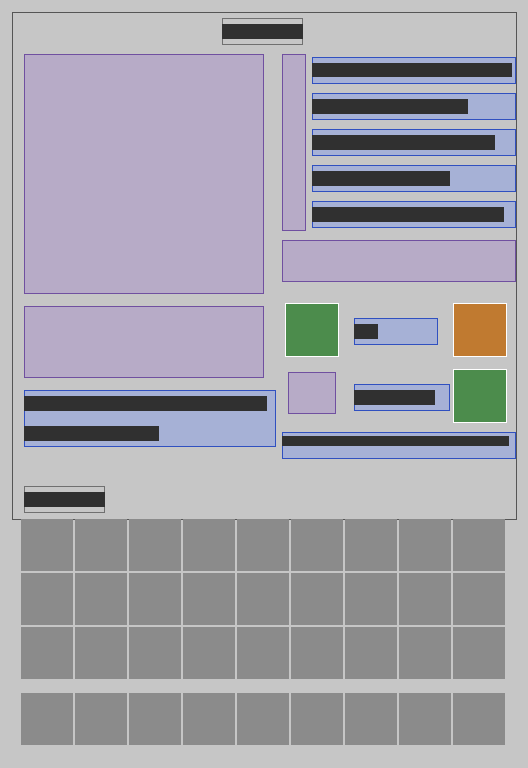
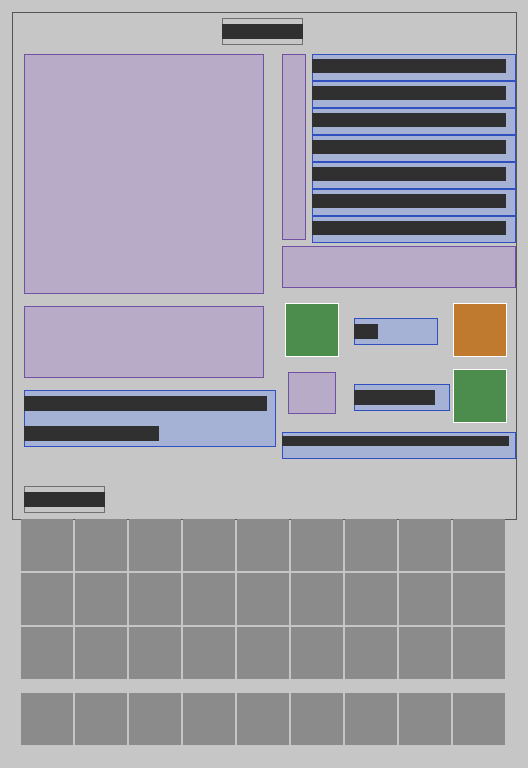
S-011 (2): drafting table process switch P (bipolar 5 / +metal2 7 / MOS 4 / MOS+metal2 6 layers, roles per process, colours for gate oxide, via, metal 2), MOS stamps only on MOS sheets, probe view shows gate oxide and metal 2; TECH_TREE [9-23] done, REFERENCES L13, LITHO_DESIGN, test_queue, LOG (288

Changed region(s): [[0.5152, 0.0625, 1.0, 0.375]]

diff --git a/src/main/java/com/taku3/semiconductorlab/block/DraftingTableBlockEntity.java b/src/main/java/com/taku3/semiconductorlab/block/DraftingTableBlockEntity.java
@@ -35,7 +35,7 @@ public class DraftingTableBlockEntity extends BlockEntity implements MachineBE {
     public static final int SLOT_SHEET = 0, SLOT_OUT = 1, SLOT_STAMP = 2, SLOT_COUNT = 3;
     public static final int DATA_UNDO = 0, DATA_REDO = 1, DATA_COUNT = 2;
     /** ボタン：新しい方眼紙・元に戻す・やり直す・ひと筆の始まり（元に戻す単位）、方眼の大きさ（+i）、原図を切る（+層）、層を消す（+層） */
-    public static final int BTN_NEW = 1, BTN_UNDO = 2, BTN_REDO = 3, BTN_STROKE = 4, BTN_SIZE = 10, BTN_CUT = 100, BTN_CLEAR = 200;
+    public static final int BTN_NEW = 1, BTN_UNDO = 2, BTN_REDO = 3, BTN_STROKE = 4, BTN_PROCESS = 5, BTN_SIZE = 10, BTN_CUT = 100, BTN_CLEAR = 200;
     /** ハンコを押す（v0.3b）：300000 ＋ マス（押す所の左上） */
     public static final int BTN_STAMP = 300_000;
     /** 選べる方眼の大きさ（露光の方法ごと、ExposureTool と同じ。v0.3 の密着露光は 8、より細かい物はその方法ができてから焼ける） */
@@ -45,17 +45,32 @@ public class DraftingTableBlockEntity extends BlockEntity implements MachineBE {
     /** 塗る（on）・消す（off）のボタンの番号：100000×(1 か 2) ＋ 10000×層 ＋ マス */
     public static int paintId(boolean on, int layer, int cell) { return (on ? 1 : 2) * 100_000 + layer * 10_000 + cell; }
 
-    /** v0.3 のふつうの層の並び（三重拡散＋窓＋アルミ1層。INBOX S-001）。役目の名前は lang litho.semiconductor-lab.role.&lt;ROLES&gt; */
-    public static final String[] ROLES = {"island", "base", "emitter", "contact", "metal"};
-    public static ChipDesign blank(int size) {
+    /** バイポーラの層の役目（三重拡散＋窓＋アルミ、INBOX S-001）。lang litho.semiconductor-lab.role.&lt;役目&gt; */
+    public static final String[] ROLES = {"island", "base", "emitter", "contact", "metal", "via", "metal2"};
+    /** MOS の層の役目（S-011 Q21-3 案A：ソースとドレイン・ゲート酸化膜・窓・金属、2層目の金属つきなら＋VIA・2層目） */
+    public static final String[] MOS_ROLES = {"source_drain", "gate_ox", "contact", "metal", "via", "metal2"};
+    /** 層の数のいちばん多い場合（バイポーラ＋2層目） */
+    public static final int MAX_LAYERS = ROLES.length;
+
+    /** 層 i の役目の名前（設計図の工程の種類で決まる） */
+    public static String role(ChipDesign d, int i) {
+        String[] r = d.mos() ? MOS_ROLES : ROLES;
+        return i < r.length ? r[i] : "metal";
+    }
+
+    public static ChipDesign blank(int size) { return blank(size, ChipDesign.BIPOLAR, false); }
+
+    /** 白紙（工程の種類と2層目の金属で層の並びが決まる、S-011） */
+    public static ChipDesign blank(int size, String process, boolean twoMetal) {
         BitGrid e = BitGrid.empty(size);
-        return new ChipDesign(size, "", List.of(new ChipDesign.Layer(LayerKind.DIFF_N, e), new ChipDesign.Layer(LayerKind.DIFF_P, e),
-                new ChipDesign.Layer(LayerKind.DIFF_N, e), new ChipDesign.Layer(LayerKind.CONTACT, e), new ChipDesign.Layer(LayerKind.METAL, e)));
+        List<ChipDesign.Layer> l = new java.util.ArrayList<>();
+        for (LayerKind k : ChipDesign.kindsFor(process, twoMetal)) l.add(new ChipDesign.Layer(k, e));
+        return new ChipDesign(size, "", l, List.of(), process);
     }
 
     /** 画面の中の位置（画面のクラス DraftingTableScreen も同じ数字を使う） */
-    public static final int H = 256, GRID_X = 8, GRID_Y = 18, GRID_W = 80, LAYER_X = 94, LAYER_Y = 18, LAYER_ROW = 12,
-            BTN_Y = 80, SECTION_X = 8, SECTION_Y = 102, SECTION_H = 24, SHEET_X = 96, SHEET_Y = 102, OUT_X = 152, OUT_Y = 102,
+    public static final int H = 256, GRID_X = 8, GRID_Y = 18, GRID_W = 80, LAYER_X = 94, LAYER_Y = 18, LAYER_ROW = 9,
+            BTN_Y = 82, SECTION_X = 8, SECTION_Y = 102, SECTION_H = 24, SHEET_X = 96, SHEET_Y = 102, OUT_X = 152, OUT_Y = 102,
             STAMP_X = 152, STAMP_Y = 124, SYMBOL_BTN_X = 96, SYMBOL_BTN_Y = 124;
 
     public static final MachineLayout LAYOUT;
@@ -66,11 +81,12 @@ public class DraftingTableBlockEntity extends BlockEntity implements MachineBE {
                 .in(SLOT_STAMP, STAMP_X, STAMP_Y, s -> s.is(Semiconductor.STAMP), 1)   // ハンコ（v0.3b）：入れている間は左クリックで押す
                 .area("symbol_button", SYMBOL_BTN_X, SYMBOL_BTN_Y, 16, 14)
                 .area("grid", GRID_X, GRID_Y, GRID_W, GRID_W)
-                .area("swatch", LAYER_X, LAYER_Y, 8, LAYER_ROW * ROLES.length - 1)
+                .area("swatch", LAYER_X, LAYER_Y, 8, LAYER_ROW * MAX_LAYERS - 1)
                 .area("buttons", LAYER_X, BTN_Y, 78, 14)
                 .area("section", SECTION_X, SECTION_Y, GRID_W, SECTION_H);
-        for (int i = 0; i < ROLES.length; i++)
-            b.text("layer" + i, LAYER_X + 10, LAYER_Y + 1 + LAYER_ROW * i, 68, 1, "litho.semiconductor-lab.role." + ROLES[i]).fit();
+        java.util.List<String> roleKeys = java.util.stream.Stream.concat(java.util.Arrays.stream(ROLES), java.util.Arrays.stream(MOS_ROLES)).distinct().map(r -> "litho.semiconductor-lab.role." + r).toList();
+        for (int i = 0; i < MAX_LAYERS; i++)
+            b.lazyText("layer" + i, LAYER_X + 10, LAYER_Y + LAYER_ROW * i, 68, 1, () -> roleKeys).fit();
         LAYOUT = b.label("arrow", SHEET_X + 22, SHEET_Y + 4, 28, "→")
                 .text("stamp_label", STAMP_X - 34, STAMP_Y + 4, 32, 1, "gui.semiconductor-lab.drafting_table.stamp_slot").fit()
                 .text("hint", LAYER_X, 144, 78, 1, MachineLayout.keys("gui.semiconductor-lab.drafting_table.", "need_sheet", "draw", "zoom", "out_full", "stamp")).fit()
@@ -134,11 +150,18 @@ public class DraftingTableBlockEntity extends BlockEntity implements MachineBE {
             return true;
         }
         if (id == BTN_STROKE) { remember(d); return true; }   // ひと筆の始まり：ここまでを1回で戻せる
+        if (id == BTN_PROCESS) {   // 工程の種類を順に：バイポーラ → バイポーラ＋2層目 → MOS → MOS＋2層目（白紙になる、元に戻せる、S-011）
+            boolean mos = d.mos(), two = d.twoMetal();
+            boolean nextMos = two ? !mos : mos, nextTwo = !two;
+            remember(d);
+            setDesign(blank(d.size(), nextMos ? ChipDesign.MOS : ChipDesign.BIPOLAR, nextTwo));
+            return true;
+        }
         if (id >= BTN_SIZE && id < BTN_SIZE + SIZES.length) {
             int size = SIZES[id - BTN_SIZE];
             if (size == d.size()) return false;
             remember(d);
-            setDesign(blank(size));
+            setDesign(blank(size, d.process(), d.twoMetal()));
             return true;
         }
         if (id >= BTN_CUT && id < BTN_CUT + d.layers().size()) {
@@ -156,7 +179,7 @@ public class DraftingTableBlockEntity extends BlockEntity implements MachineBE {
         if (id >= BTN_STAMP && id < BTN_STAMP + 10_000) {   // ハンコを押す（左上のマス）
             ChipDesign st = container.getItem(SLOT_STAMP).get(ModDataComponents.CHIP_DESIGN);
             int cell = id - BTN_STAMP;
-            if (st == null || cell >= d.size() * d.size()) return false;
+            if (st == null || cell >= d.size() * d.size() || st.mos() != d.mos()) return false;   // 工程の種類のちがうハンコは押せない
             remember(d);
             setDesign(d.stamp(st, cell % d.size(), cell / d.size()));
             return true;

diff --git a/src/client/java/com/taku3/semiconductorlab/client/DraftingTableScreen.java b/src/client/java/com/taku3/semiconductorlab/client/DraftingTableScreen.java
@@ -22,7 +22,15 @@ import static com.taku3.semiconductorlab.block.DraftingTableBlockEntity.*;
 public class DraftingTableScreen extends MachineScreen {
     private static final int P = 0xFFE89A9A, N = 0xFF92B4EE, P_SUB = 0xFFF2C4C4, N_SUB = 0xFFC4D6F4, METAL = 0x90707078, OXIDE = 0xFFF4F4F4,
             HILITE = 0xFFFFD030, GRIDLINE = 0x30000000;
-    private static final int[] SWATCH = {N, P, N, 0xFF303030, 0xFF8A8A92};
+    private static final int[] SWATCH = {N, P, N, 0xFF303030, 0xFF8A8A92, 0xFF4040A0, 0xFF506090};
+
+    /** 層の種類の色見本 */
+    private static int swatch(com.taku3.semiconductorlab.litho.LayerKind k) {
+        return switch (k) {
+            case DIFF_N -> N; case DIFF_P -> P; case CONTACT -> 0xFF303030; case METAL -> 0xFF8A8A92;
+            case GATE_OX -> 0xFF60A060; case VIA -> 0xFF4040A0; case METAL2 -> 0xFF506090;
+        };
+    }
 
     private int layer = 0, sectionRow = 0, lastCell = -1;
     private boolean painting, paintOn;
@@ -57,10 +65,10 @@ public class DraftingTableScreen extends MachineScreen {
 
     @Override protected void init() {
         super.init();
-        String[] labels = {"←", "→", "✂", "×", "+", "#"};
+        String[] labels = {"←", "→", "✂", "×", "+", "#", "P"};   // P＝工程の種類（バイポーラ／MOS・2層目、S-011）
         for (int i = 0; i < labels.length; i++) {
             final int k = i;
-            addRenderableWidget(Button.builder(Component.literal(labels[i]), b -> button(k)).bounds(leftPos + LAYER_X + 13 * i, topPos + BTN_Y, 12, 14).build());
+            addRenderableWidget(Button.builder(Component.literal(labels[i]), b -> button(k)).bounds(leftPos + LAYER_X + 11 * i, topPos + BTN_Y, 10, 14).build());
         }
         // 記号の切りかえ（v0.3b）：押したハンコを記号（色の箱）で見せる。中身をのぞいているときは1段もどる
         addRenderableWidget(Button.builder(Component.literal("▣"), b -> { if (!inside.isEmpty()) inside.pop(); else symbols = !symbols; })
@@ -75,6 +83,7 @@ public class DraftingTableScreen extends MachineScreen {
             case 2 -> press(BTN_CUT + layer);
             case 3 -> press(BTN_CLEAR + layer);
             case 4 -> press(BTN_NEW);
+            case 6 -> press(BTN_PROCESS);
             default -> {   // 方眼の大きさを順に（8 → 12 → 16 → 24 → … → 72、露光の方法ごと）
                 if (d == null) return;
                 int i = 0;
@@ -132,7 +141,8 @@ public class DraftingTableScreen extends MachineScreen {
     @Override public boolean mouseClicked(MouseButtonEvent e, boolean doubleClick) {
         ChipDesign d = design();
         double rx = e.x() - leftPos, ry = e.y() - topPos;
-        if (rx >= LAYER_X && rx < LAYER_X + 78 && ry >= LAYER_Y && ry < LAYER_Y + LAYER_ROW * ROLES.length) {
+        int nLayers = d == null ? 0 : d.layers().size();
+        if (rx >= LAYER_X && rx < LAYER_X + 78 && ry >= LAYER_Y && ry < LAYER_Y + LAYER_ROW * nLayers) {
             layer = (int) ((ry - LAYER_Y) / LAYER_ROW);
             return true;
         }
@@ -189,12 +199,14 @@ public class DraftingTableScreen extends MachineScreen {
     @Override
     public void extractBackground(GuiGraphicsExtractor g, int mouseX, int mouseY, float partialTick) {
         super.extractBackground(g, mouseX, mouseY, partialTick);
-        for (int i = 0; i < ROLES.length; i++) {   // 層の色見本と、いま選んでいる層
-            int y = topPos + LAYER_Y + LAYER_ROW * i;
-            g.fill(leftPos + LAYER_X, y + 1, leftPos + LAYER_X + 8, y + 9, SWATCH[i]);
-            if (i == layer) g.outline(leftPos + LAYER_X - 1, y, 80, LAYER_ROW - 1, HILITE);
-        }
         ChipDesign d = design();
+        int nLayers = d == null ? ROLES.length - 2 : d.layers().size();
+        if (layer >= nLayers) layer = 0;
+        for (int i = 0; i < nLayers; i++) {   // 層の色見本と、いま選んでいる層（層の種類で色）
+            int y = topPos + LAYER_Y + LAYER_ROW * i;
+            g.fill(leftPos + LAYER_X, y + 1, leftPos + LAYER_X + 8, y + LAYER_ROW - 1, d == null ? SWATCH[i] : swatch(d.layers().get(i).kind()));
+            if (i == layer) g.outline(leftPos + LAYER_X - 1, y, 80, LAYER_ROW, HILITE);
+        }
         int gx = leftPos + GRID_X, gy = topPos + GRID_Y;
         g.fill(gx, gy, gx + GRID_W, gy + GRID_W, 0xFFDADADA);
         g.fill(leftPos + SECTION_X, topPos + SECTION_Y, leftPos + SECTION_X + GRID_W, topPos + SECTION_Y + SECTION_H, 0xFFDADADA);
@@ -208,7 +220,10 @@ public class DraftingTableScreen extends MachineScreen {
             int x = ox + vx, y = oy + vy;
             int x0 = gx + vx * cs, y0 = gy + vy * cs;
             g.fill(x0, y0, x0 + cs, y0 + cs, color(m, x, y));
+            if (m.gate(x, y)) g.fill(x0, y0, x0 + cs, y0 + cs, 0x6040A040);   // ゲート酸化膜（緑がかった色）
             if (m.metal(x, y)) g.fill(x0, y0, x0 + cs, y0 + cs, METAL);
+            if (m.metal2(x, y)) g.fill(x0, y0, x0 + cs, y0 + cs, 0x80506090);   // 2層目の金属（青がかった灰）
+            if (m.via(x, y)) { int d3 = Math.max(1, cs / 3); g.fill(x0 + cs / 2 - d3, y0 + cs / 2 - d3, x0 + cs / 2 + d3, y0 + cs / 2 + d3, 0xFF4040A0); }
             if (m.contact(x, y)) { int d2 = Math.max(1, cs / 4); g.fill(x0 + cs / 2 - d2, y0 + cs / 2 - d2, x0 + cs / 2 + d2, y0 + cs / 2 + d2, 0xFF202020); }
             boolean on = layer < d.layers().size() && d.layers().get(layer).cells().get(x, y);
             if (cs >= 3) g.outline(x0, y0, cs, cs, on ? HILITE : GRIDLINE);
@@ -281,7 +296,12 @@ public class DraftingTableScreen extends MachineScreen {
             return Component.translatable(k + (design().size() > SIZES[0] ? "zoom" : "draw"));
         }
         if (id.equals("stamp_label")) return Component.translatable(k0 + "stamp_slot");
-        if (id.startsWith("layer")) return Component.translatable("litho.semiconductor-lab.role." + ROLES[id.charAt(5) - '0']);
+        if (id.startsWith("layer")) {
+            ChipDesign d = design();
+            int i = id.charAt(5) - '0';
+            if (d == null ? i >= ROLES.length - 2 : i >= d.layers().size()) return null;
+            return Component.translatable("litho.semiconductor-lab.role." + (d == null ? ROLES[i] : role(d, i)));
+        }
         return null;
     }
 }

diff --git a/src/gametest/java/com/taku3/semiconductorlab/gametest/SemiconductorTests.java b/src/gametest/java/com/taku3/semiconductorlab/gametest/SemiconductorTests.java
@@ -2379,6 +2379,30 @@ public class SemiconductorTests extends LabTestBase {
         h.succeed();
     }
 
+    /** S-011：製図台の P で工程の種類を順に（バイポーラ5層 → ＋2層目7層 → MOS 4層 → MOS＋2層目6層）。MOS のハンコはバイポーラの紙には押せない */
+    @GameTest(maxTicks = 50)
+    public void draftingProcess(GameTestHelper h) {
+        h.setBlock(p(1, 1, 1), Semiconductor.DRAFTING_TABLE.block);
+        var dt = h.getBlockEntity(p(1, 1, 1), com.taku3.semiconductorlab.block.DraftingTableBlockEntity.class);
+        var player = h.makeMockPlayer(net.minecraft.world.level.GameType.SURVIVAL);
+        dt.onButton(player, com.taku3.semiconductorlab.block.DraftingTableBlockEntity.BTN_NEW);
+        int[] sizes = new int[4]; boolean[] mos = new boolean[4];
+        for (int k = 0; k < 4; k++) {
+            sizes[k] = dt.design().layers().size(); mos[k] = dt.design().mos();
+            dt.onButton(player, com.taku3.semiconductorlab.block.DraftingTableBlockEntity.BTN_PROCESS);
+        }
+        h.assertTrue(java.util.Arrays.equals(sizes, new int[] {5, 7, 4, 6}) && java.util.Arrays.equals(mos, new boolean[] {false, false, true, true}), "process cycle: " + java.util.Arrays.toString(sizes));
+        h.assertValueEqual(com.taku3.semiconductorlab.block.DraftingTableBlockEntity.role(com.taku3.semiconductorlab.litho.LithoExamples.nmosInverter(), 1), "gate_ox", "MOS layer 1 is the gate oxide");
+        ItemStack stamp = new ItemStack(Semiconductor.STAMP);
+        stamp.set(ModDataComponents.CHIP_DESIGN, com.taku3.semiconductorlab.litho.LithoExamples.nmosInverter().crop());
+        dt.getContainer().setItem(com.taku3.semiconductorlab.block.DraftingTableBlockEntity.SLOT_STAMP, stamp);
+        h.assertFalse(dt.onButton(player, com.taku3.semiconductorlab.block.DraftingTableBlockEntity.BTN_STAMP), "a MOS stamp does not go on a bipolar sheet");
+        dt.onButton(player, com.taku3.semiconductorlab.block.DraftingTableBlockEntity.BTN_PROCESS);
+        dt.onButton(player, com.taku3.semiconductorlab.block.DraftingTableBlockEntity.BTN_PROCESS);
+        h.assertTrue(dt.design().mos() && dt.onButton(player, com.taku3.semiconductorlab.block.DraftingTableBlockEntity.BTN_STAMP), "it goes on a MOS sheet");
+        h.succeed();
+    }
+
     static void machineRecipes(com.google.gson.JsonArray a) {
         double zt = ZoneRefiningFurnaceBlockEntity.TOTAL_TICKS / 20.0, zw = ZoneRefiningFurnaceBlockEntity.WATTS;
         rec(a, Semiconductor.ZONE_REFINING_FURNACE.block, "帯域精製（1パスで純度が1段上がる：6N→9N→10N）",

diff --git a/src/client/java/com/taku3/semiconductorlab/client/ProbeStationScreen.java b/src/client/java/com/taku3/semiconductorlab/client/ProbeStationScreen.java
@@ -98,7 +98,9 @@ public class ProbeStationScreen extends MachineScreen {
             int x0 = gx + x * c, y0 = gy + y * c;
             boolean sub = m.level(x, y) == 0;
             g.fill(x0, y0, x0 + c, y0 + c, m.type(x, y) == 'p' ? (sub ? P_SUB : P) : (sub ? N_SUB : N));
+            if (m.gate(x, y)) g.fill(x0, y0, x0 + c, y0 + c, 0x6040A040);   // ゲート酸化膜（MOS、S-011）
             if (m.metal(x, y)) g.fill(x0, y0, x0 + c, y0 + c, METAL);
+            if (m.metal2(x, y)) g.fill(x0, y0, x0 + c, y0 + c, 0x80506090);   // 2層目の金属
             if (m.contact(x, y)) g.fill(x0 + c / 2 - 1, y0 + c / 2 - 1, x0 + c / 2 + 1, y0 + c / 2 + 1, 0xFF202020);
             if (sol != null) {   // 電流の明るさ（対数）
                 double a = sol.cellAmps()[y * n + x];

diff --git a/docs/TECH_TREE.md b/docs/TECH_TREE.md
@@ -583,7 +583,7 @@ graph LR
 ### [9-49] サイリスタ（SCR：大電流をオン・オフする半導体スイッチ） ❓  年: 1957（1956〜1957） ／ 前提: [9-16]熱拡散（p・n・p・n の4層）, [4-11]整流器 ／ 本物: シリコンに p・n・p・n の4つの層を作った半導体のスイッチ。小さな電流を1回流すだけでオンになり、大きな電流を流し続ける。1956年ごろベル研究所で p-n-p-n のスイッチが研究され、1957年にアメリカの GE が3本足の SCR（シリコン制御整流器）を作って売り出した（IEEE マイルストーン「SCR/Thyristor, 1957」）。水銀整流器やガス入りの管を置きかえ、電車・電力のインバータは最初サイリスタで作られた（GTO・IGCT はその子孫、[9-41]） ／ MC: 未定（実装の前に相談） ／ へえ①: 電車のモーターの速さを変える装置は、最初はサイリスタという半導体のスイッチで作られた（O-011 で追加。出典：IEEE Milestones「SCR/Thyristor, 1957」、ETHW IEEE Milestones 'SCR/Thyristor, 1957' / IEEE Spectrum（https://ethw.org/Milestones:SCR/Thyristor,_1957））
 ### [9-21] 現像・ポストベーク ✅  年: 1957（1955〜57） ／ 遊び方: 重 ／ **実装（2026-10 IMP4-01、O-006）**: 現像液 developer（作業台：NaOH1＋水バケツ1＋空のガラス瓶3 → 3、約1%）。現像槽 developer_bench（ソーダ石灰ガラス×5＋鉄×2＋銅ケーブル、300W）：露光した加工中のウェハー1〜8枚＋現像液 → ChipOps.develop（ポストベーク込み、20秒）。ネガ型（キシレン）は [2-30] の後。CHEMISTRY F41〜F42、REFERENCES F20、テスト developer_bench ／ 続きの「レジストはがし」: 続きの「レジストはがし」だけ先に：レジストはがし槽 resist_stripper（ソーダ石灰ガラス×7＋銅ケーブル、500W）。レジスト付きのウェハー1〜8枚＋硫酸＋過酸化水素 → ChipOps.strip（塗り直しにも）。CHEMISTRY F40、テスト resist_stripper。現像そのものは前提 [9-20]（C）の後 ／ 前提: [9-20], 現像液＝[2-02]KOH or [2-08]NaOH or [2-20]キシレン（ポジ型は KOH・NaOH の薄い水溶液、現代は金属を含まない TMAH（2.38% 水溶液が標準）。ネガ型はキシレン）／ 本物: 露光部（ポジ）or 未露光部（ネガ）を溶かして模様を出す → 加熱して固め、エッチングに耐えるように。現像で窓を開ける工程はベル研の1955〜57年から（コダックの KPR）。ポストベークの始まりの年は未確認 ／ MC: 現像槽（ROADMAP v0.3 #4）／ へえ①: 写真の現像と同じ手順で回路を浮かび上がらせる
 ### [9-22] 集積回路（IC）✅  年: 1958（1958〜59） ／ **実装（2026-10 A、INBOX O-010）**: 検査台の発見 monolithic_ic（1959、Discoveries.integrated）：1枚の板の中で、トランジスタと「別の領域の」抵抗（接合で分けた別の部品）が、板の上の Al の線でつながっていれば見つかる（進捗 discovery/monolithic_ic、チャレンジ）。ゲームで作れるのは**ノイスの形**（Si・プレーナ・酸化膜の上の蒸着 Al・接合分離）。**キルビーの形**（1958.9.12、TI、Ge の1かけらにトランジスタ・板そのものの抵抗・pn 接合のコンデンサ、部品どうしは金の細い線で空中に＝メサ形、平らでない）は作れない＝省略⚠（Ge の板と金線のボンディングが無い。説明と REFERENCES L4 に違いを書いた）。8×8 の NOT の例は5つの発見（抵抗・ダイオード・トランジスタ・IC・NOT）。GameTest litho_core・probe_station・v03Chain ／ 元の記述→ 前提: [9-18], [9-25]配線 ／ 本物: 1958.9 ジャック・キルビー（TI。Ge 上に部品を作り金線で結んだ）、1959 ロバート・ノイス（フェアチャイルド。プレーナ＋蒸着 Al 配線で一体化＝モノリシック IC）。キルビーは2000年ノーベル物理学賞 ／ MC: チップアイテム（design / grade、ROADMAP v0.3 #7）／ へえ①: 最初の IC はトランジスタ1個と部品数個の、指先ほどの大きさ ／ 種類: モノ
-### [9-23] MOSFET ❓  年: 1959（1959〜60） ／ 前提: [9-15]（良質な薄い酸化膜）, [9-18], [9-14] ／ 本物: 1959 モハメド・アタラとダウォン・カーン（ベル研）が試作、1960 発表。ゲートの電圧で酸化膜の下に電子の通り道（チャネル）を作る。当初は Na イオン汚染で不安定 → 洗浄[9-14]などで1960年代後半に解決 ／ MC: 第3章以降の基本トランジスタ ／ へえ①: 人類が作った物の中で、いちばん数が多いのが MOSFET
+### [9-23] MOSFET ✅  年: 1959（1959〜60） ／ **実装（2026-10 A、S-011 Q21 全部案A）**: litho に MOS：層 GATE_OX（ChipOps.gateOxide＝開いた所の酸化膜を薄く育て直す）、Al ゲート、製図台の「P」で工程の種類（MOS＝ソースとドレイン・ゲート酸化膜・窓・金属）、Netlist が n チャネルの MOS を見つけ、Circuit は二乗の式（Vt 1V・係数はゲームの値⚠）。例 LithoExamples.nmosInverter（16×16、抵抗負荷、密着露光で NOT に合格、ゲートに電流は流れない）。⚠ p チャネル・しきい値の調整・Na イオンの不安定さは省略。LITHO_DESIGN §12、REFERENCES L13 ／ テスト: mosAndTwoMetal・draftingProcess ／ 前提: [9-15]（良質な薄い酸化膜）, [9-18], [9-14] ／ 本物: 1959 モハメド・アタラとダウォン・カーン（ベル研）が試作、1960 発表。ゲートの電圧で酸化膜の下に電子の通り道（チャネル）を作る。当初は Na イオン汚染で不安定 → 洗浄[9-14]などで1960年代後半に解決 ／ MC: 第3章以降の基本トランジスタ ／ へえ①: 人類が作った物の中で、いちばん数が多いのが MOSFET
 ### [9-24] CMOS ❓  年: 1963 ／ 前提: [9-23], [9-16] or [9-28]（n型とp型のウェル）／ 本物: 1963 フランク・ワンラスとサー・チータン（フェアチャイルド）。n型と p型の MOSFET を対にすると、止まっている間ほとんど電流が流れない。1970年代の電卓・腕時計から普及 ／ MC: [10-xx] 論理の省電力版（電卓[B-08]の条件）／ へえ①: 電卓や時計の電池が何年ももつのは CMOS のおかげ
 
 ### 薄膜・加工

diff --git a/docs/TEST_QUEUE.md b/docs/TEST_QUEUE.md
@@ -1042,6 +1042,10 @@
 - [x] 自動✅ 2Mg＋Si → Mg2Si、空のボンベがないと動かない、Mg2Si＋塩酸4 → シランのボンベ `(silane_generator)`
 - [ ] 人間：シランの発生器の GUI（反応ごとの文・「空のボンベが要る」）、塩酸の瓶が上に出る
 
+## [9-23] MOSFET・2層目の金属（A、S-011）
+- [x] 自動✅ mosAndTwoMetal：16×16 の NMOS インバータを密着露光で焼くと MOS 1個、NOT に合格、ゲートに電流が流れない。層間膜 → VIA → 2層目で離れたパッドが同じ線、ハンコに MOS と2層目が残る。draftingProcess：P で 5→7→4→6 層、MOS のハンコはバイポーラの紙に押せない
+- [ ] 人間：製図台の P で層の並びが変わり（ゲート酸化膜は緑、VIA・2層目は青）、MOS の紙に NMOS インバータを描いて焼き、検査台で NOT に合格するか。検査台の絵にゲート酸化膜・2層目が見えるか
+
 ## [10-11] 全加算器のお題（A、O-018）
 - [x] 自動✅ challenges：全加算器の表は A+B+C の2けた、入力C の役目が要る
 - [ ] 人間：検査台のパッドに「入力C」（黄緑）が出るか。半加算器を解くと全加算器のお題が開くか。ステッパーの方眼でハンコを組んで全加算器を作り、合格できるか（大きな回路の計算の速さも見る）

diff --git a/docs/tasks/LOG.md b/docs/tasks/LOG.md
@@ -534,3 +534,9 @@
 - INBOX に6時間変化が無かったので止まる。答え待ち：O-021 の Q21-1〜4（MOSFET の入れ方、LITHO_DESIGN §12、A のおすすめは全部 案A）、E が出した多層化（金属2層目）の質問
 - ほかの担当との約束：D の [4-15] リチウムイオン電池が来たら、A が energy/ に充電池の共通の親クラスを作る（鉛蓄電池も使う形に）
 
+## S-011（Q21 全部案A・多層化 案B、2026-10-21）・O-021
+- litho の MOS と2層目の金属（a2cba43b）：GATE_OX・gateOxide、depositInterlayer → VIA・METAL2、Netlist の MOS と2層の線、二乗の式。例 nmosInverter（NOT に合格）・nmosInverterTwoMetal。DECISIONS 5行
+- 製図台：P で工程の種類（バイポーラ5層・＋2層目7層・MOS 4層・MOS＋2層目6層）、層の名前は工程で、MOS のハンコはバイポーラの紙に押せない。検査台の絵にゲート酸化膜・2層目
+- E に API を知らせた（層間膜の CVD 炉・シランは E）。TECH_TREE [9-23] ✅、REFERENCES L13、test_queue
+- 次：[9-24] CMOS（p チャネル＋ウェル）、[10-12] DRAM（電荷が漏れる→手順の列に足す案が要る）
+

diff --git a/docs/test_queue/9_semiconductor.md b/docs/test_queue/9_semiconductor.md
@@ -174,3 +174,8 @@
 ## [9-30] シラン（IMP4-01 S-002）
 - [x] 自動✅ 2Mg＋Si → Mg2Si、空のボンベがないと動かない、Mg2Si＋塩酸4 → シランのボンベ `(silane_generator)`
 - [ ] 人間：シランの発生器の GUI（反応ごとの文・「空のボンベが要る」）、塩酸の瓶が上に出る
+
+## [9-23] MOSFET・2層目の金属（A、S-011）
+- [x] 自動✅ mosAndTwoMetal：16×16 の NMOS インバータを密着露光で焼くと MOS 1個、NOT に合格、ゲートに電流が流れない。層間膜 → VIA → 2層目で離れたパッドが同じ線、ハンコに MOS と2層目が残る。draftingProcess：P で 5→7→4→6 層、MOS のハンコはバイポーラの紙に押せない
+- [ ] 人間：製図台の P で層の並びが変わり（ゲート酸化膜は緑、VIA・2層目は青）、MOS の紙に NMOS インバータを描いて焼き、検査台で NOT に合格するか。検査台の絵にゲート酸化膜・2層目が見えるか
+

diff --git a/docs/REFERENCES.md b/docs/REFERENCES.md
@@ -587,7 +587,7 @@
 - へえ④：今のチップのトランジスタはほとんど全部 MOS（CMOS）。1つのチップに数百億個。
 
 確かさ：アタラとカーン 1959 試作・1960 発表 ◎／ゲート酸化膜の厚さのめやす ○／Na イオンの問題と洗浄 ○
-ゲーム：まだ（LITHO_DESIGN §12 の案、Q21-1〜4 の答え待ち）
+ゲーム（S-011、全部案A）：層 GATE_OX＋Al ゲート、製図台で工程の種類 MOS、二乗の式（Vt 1V ⚠）。16×16 の NMOS インバータ（抵抗負荷）が NOT のお題に合格
 根拠：Computer History Museum「1960 – Metal Oxide Semiconductor (MOS) Transistor Demonstrated」、Wikipedia「MOSFET」（History）
 
 ---
